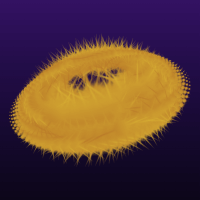
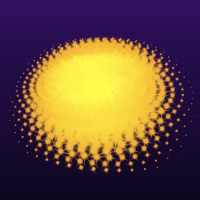
refine preset 10

diff --git a/src/util/visualizationState.ts b/src/util/visualizationState.ts
@@ -405,7 +405,7 @@ const preset9: VisualizationState = {
 const preset10: VisualizationState = {
   dimensions: ["100vw", "100vh"],
   density: 6.6,
-  arrangement: "circular",
+  arrangement: "spiral",
   zAxisArrangement: "dome",
   image: "glow.png",
   animationMode: "orbits",
@@ -415,29 +415,29 @@ const preset10: VisualizationState = {
   animationMagnitude: 1.3,
   rotationMode: "fieldRadial",
   rotationRange: [0.7, 12.566370614359172],
-  colorMode: "gradient",
-  color1: "#d7844f",
-  color2: "#fffc60",
+  colorMode: "fieldRadial",
+  color1: "#fffe84",
+  color2: "#ffc92b",
   background: {
     type: "gradient",
     colors: ["#060111", "#430874"],
   },
-  fov: 150,
+  fov: 144,
   animationSpeed: 0.4,
-  xMagnitude: 2.2,
-  yMagnitude: 1.3,
-  orbitInnerRadius: 1.5,
-  orbitScale: 0.6,
+  xMagnitude: 5,
+  yMagnitude: 2.7,
+  orbitInnerRadius: 0,
+  orbitScale: -0.6,
   innerRadius: 0.8,
   innerScaling: 5.6,
   outerRadius: 10,
   outerScaling: 0.1,
   depthTestOn: false,
   cameraMatrix: [
-    -0.9782944307685436, 0.19550487618878884, -0.06868660796448059, 0,
-    -0.2072183989514031, -0.9241598006339671, 0.32091930142672315, 0,
-    -0.0007361136306537001, 0.328186694243694, 0.9446125935314015, 0,
-    -0.5199676332731906, 4.369371142309664, 3.8941869235292215, 1,
+    -0.9944964596057377, -0.0947111714353202, -0.04479493092986833, 0,
+    0.08282014411784326, -0.9725294526531179, 0.21754835657973284, 0,
+    -0.06416864935435362, 0.2126411477762281, 0.9750210903936642, 0,
+    -1.9037348775290177, 4.1844003340666065, 6.276215657127127, 1,
   ],
   statsOn: false,
   interactiveCamera: true,
